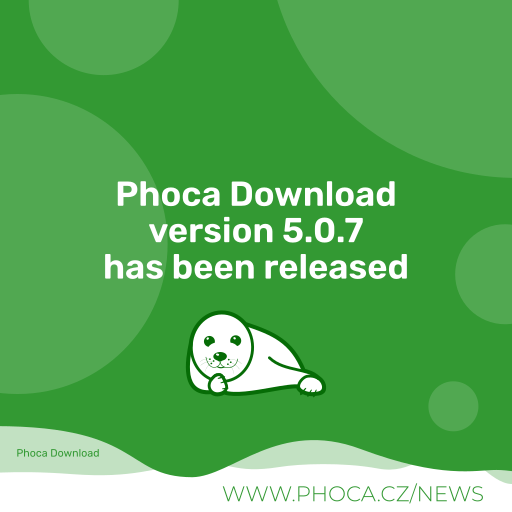
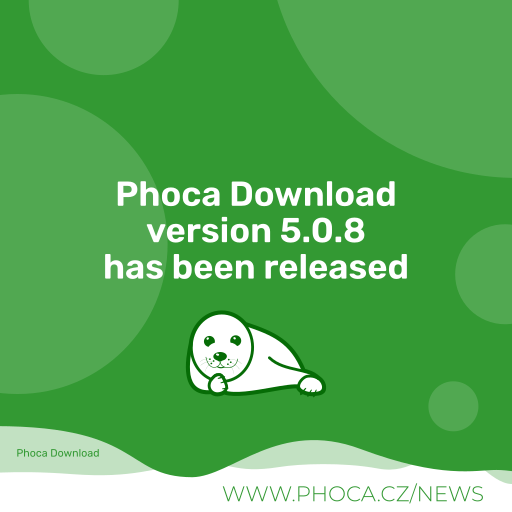
5.0.8

Changed region(s): [[0.2812, 0.4062, 0.7188, 0.4688]]

diff --git a/admin/models/phocadownloadcat.php b/admin/models/phocadownloadcat.php
@@ -124,18 +124,14 @@ class PhocaDownloadCpModelPhocaDownloadCat extends AdminModel
 		//$condition[] = 'state >= 0';
 		return $condition;
 	}
-
-
-
-
-
-
+	
 	/*
 	 * Custom Save method - libraries/joomla/application/component/modeladmin.php
 	 */
 	public function save($data)
 	{
 
+		$app		= Factory::getApplication();
 		// = = = = = = = = = =
 		// Default VALUES FOR Rights in FRONTEND
 		// ACCESS -  0: all users can see the category (registered or not registered)
@@ -207,6 +203,13 @@ class PhocaDownloadCpModelPhocaDownloadCat extends AdminModel
 			return false;
 		}*/
 
+		PluginHelper::importPlugin($this->events_map['save']);
+		$result = $app->triggerEvent($this->event_before_save, array($this->option.'.'.$this->name, $table, $isNew, $data));
+		if (\in_array(false, $result, true)) {
+			$this->setError($table->getError());
+			return false;
+		}
+
 		// Store the data.
 		if (!$table->store()) {
 			throw new Exception($table->getError(), 500);
@@ -221,6 +224,12 @@ class PhocaDownloadCpModelPhocaDownloadCat extends AdminModel
 
 		// Trigger the onContentAfterSave event.
 		//$dispatcher->trigger($this->event_after_save, array($this->option.'.'.$this->name, $table, $isNew));
+		PluginHelper::importPlugin($this->events_map['save']);
+		$result = $app->triggerEvent($this->event_after_save, array($this->option.'.'.$this->name, $table, $isNew, $data));
+		if (\in_array(false, $result, true)) {
+			$this->setError($table->getError());
+			return false;
+		}
 
 		$pkName = $table->getKeyName();
 		if (isset($table->$pkName)) {
@@ -304,15 +313,30 @@ class PhocaDownloadCpModelPhocaDownloadCat extends AdminModel
 					}
 				}
 
+				$table		= $this->getTable();
 				if (count( $cid )) {
 					$cids = implode( ',', $cid );
-					$query = 'DELETE FROM #__phocadownload_categories'
+					/*$query = 'DELETE FROM #__phocadownload_categories'
 					. ' WHERE id IN ( '.$cids.' )';
 					$db->setQuery( $query );
 					if (!$db->execute()) {
 						throw new Exception($db->getError());
 						return false;
+					}*/
+
+					PluginHelper::importPlugin($this->events_map['delete']);
+					foreach ($cid as $i => $pk) {
+						if ($table->load($pk)) {
+							if ($this->canDelete($table)) {
+								if (!$table->delete($pk)) {
+									throw new Exception($table->getError(), 500);
+									return false;
+								}
+								$app->triggerEvent($this->event_after_delete, array($this->option.'.'.$this->name, $table));
+							}
+						}
 					}
+
 
 					// Delete items in phocadownload_user_category
 				/*	$query = 'DELETE FROM #__phocadownload_user_category'

diff --git a/admin/models/phocadownloadfile.php b/admin/models/phocadownloadfile.php
@@ -611,6 +611,8 @@ class PhocaDownloadCpModelPhocaDownloadFile extends AdminModel
 		$paramsC 		= ComponentHelper::getParams('com_phocadownload');
 		$deleteExistingFiles 	= $paramsC->get( 'delete_existing_files', 0 );
 
+		$table		= $this->getTable();
+
 		if (count( $cid )) {
 			ArrayHelper::toInteger($cid);
 			$cids = implode( ',', $cid );
@@ -624,12 +626,25 @@ class PhocaDownloadCpModelPhocaDownloadFile extends AdminModel
 
 
 			//Delete it from DB
-			$query = 'DELETE FROM #__phocadownload'
+			/*$query = 'DELETE FROM #__phocadownload'
 				. ' WHERE id IN ( '.$cids.' )';
 			$this->_db->setQuery( $query );
 			if(!$this->_db->execute()) {
 				throw new Exception($this->_db->getError());
 				return false;
+			}*/
+			$app		= Factory::getApplication();
+			PluginHelper::importPlugin($this->events_map['delete']);
+			foreach ($cid as $i => $pk) {
+				if ($table->load($pk)) {
+					if ($this->canDelete($table)) {
+						if (!$table->delete($pk)) {
+							throw new Exception($table->getError(), 500);
+							return false;
+						}
+						$app->triggerEvent($this->event_after_delete, array($this->option.'.'.$this->name, $table));
+					}
+				}
 			}
 
 			//Delete tags from DB
@@ -665,6 +680,16 @@ class PhocaDownloadCpModelPhocaDownloadFile extends AdminModel
 					}
 				}
 			}
+
+
+			/*$app		= Factory::getApplication();
+			PluginHelper::importPlugin($this->events_map['delete']);
+			$result = $app->triggerEvent($this->event_after_delete, array($this->option.'.'.$this->name, $table));
+			if (\in_array(false, $result, true)) {
+				$this->setError($table->getError());
+				return false;
+			}*/
+
 
 		}
 		return true;

diff --git a/admin/libraries/phocadownload/render/layout.php b/admin/libraries/phocadownload/render/layout.php
@@ -235,7 +235,6 @@ class PhocaDownloadLayout
 			$sA = explode(',', $string);
 			if (!empty($sA)) {
 				foreach ($sA as $k => $v) {
-
 					// Specific cases for Joomla! CMS
 					switch($v) {
 						case '1.5': $c = 'pd-j-15'; break;
@@ -245,10 +244,10 @@ class PhocaDownloadLayout
 						case '3.5': $c = 'pd-j-35'; break;
 						case '4.x': $c = 'pd-j-4x'; break;
 						case '4.0': $c = 'pd-j-40'; break;
-						default: $c = 'label-default bg-default';break;
+						default: $c = 'label-default bg-default label-'. PhocaDownloadUtils::getAliasName($v);break;
 					}
 
-					$o[] = '<span class="label badge '.$c.'">'.$v.'</span>';
+					$o[] = '<span class="label badge '.$c.'">'.trim($v).'</span>';
 				}
 			}
 		}

diff --git a/admin/libraries/phocadownload/download/download.php b/admin/libraries/phocadownload/download/download.php
@@ -253,7 +253,9 @@ class PhocaDownloadDownload
 					//@readfile($absOrRelFile);
 
 					// Try to deliver in chunks
-					@set_time_limit(0);
+					if (function_exists('set_time_limit')) {
+						@set_time_limit(0);
+					}
 					$fp = @fopen($absOrRelFile, 'rb');
 					if ($fp !== false) {
 						while (!feof($fp)) {

diff --git a/README.MD b/README.MD
@@ -100,7 +100,7 @@ Phoca Download is download manager for Joomla! CMS. It includes component, modul
 
 ## Version (Joomla! 5.x)
 
-5.0.7
+5.0.8
 
 
 
